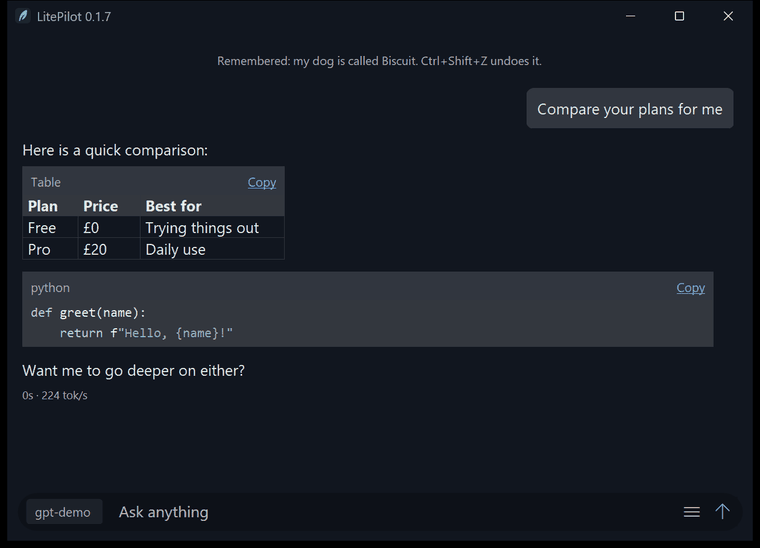
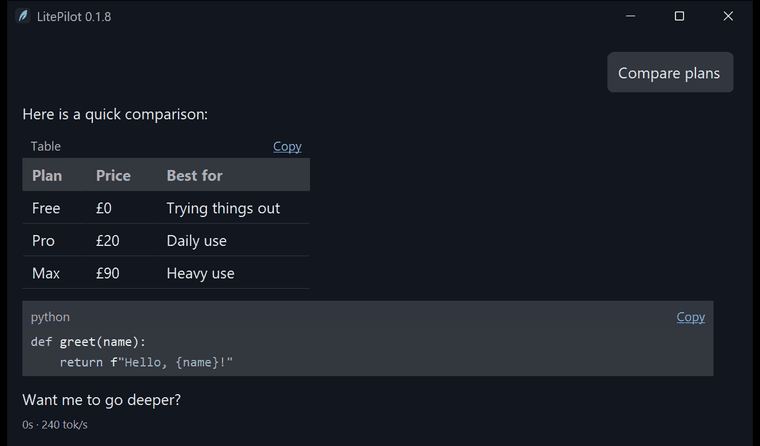
Version 0.1.8: clean card tables, tidier README screenshots

diff --git a/src/windows/rtf.rs b/src/windows/rtf.rs
@@ -149,14 +149,23 @@ fn copy_link(out: &mut String, text: String) {
     out.push_str("}}}");
 }
 
-/// The bar across the top of a card: a label on the left, Copy on the right.
-fn card_bar(out: &mut String, label: &str, text: String, width: usize) {
-    out.push_str(&format!("\\trowd\\trgaph120{CELL_EDGE}\\clcbpat5\\cellx{}{CELL_EDGE}\\clcbpat5\\cellx{width}", width * 2 / 3));
-    out.push_str("\\pard\\intbl\\ltrpar\\sb40\\sa40{\\fs18\\cf2 ");
+/// The bar across the top of a card: a label on the left, Copy on the right. Code cards shade it; tables
+/// leave it plain, so the table below reads as one clean card.
+fn card_bar(out: &mut String, label: &str, text: String, width: usize, shaded: bool) {
+    // RichEdit draws a light guide line around a cell with no border set, so the plain bar gets borders in the
+    // page's own color (color 6) instead.
+    let cell = if shaded { format!(r"{CELL_EDGE}\clcbpat5") } else { edges(6, 6, 6, 6) };
+    out.push_str(&format!(r"\trowd\trgaph120{cell}\cellx{}{cell}\cellx{width}", width * 2 / 3));
+    out.push_str(r"\pard\intbl\ltrpar\sb40\sa40{\fs18\cf2 ");
     esc(out, label);
-    out.push_str("}\\cell\\pard\\intbl\\qr\\sb40\\sa40 ");
+    out.push_str(r"}\cell\pard\intbl\qr\sb40\sa40 ");
     copy_link(out, text);
-    out.push_str("\\cell\\row\\pard ");
+    out.push_str(r"\cell\row\pard ");
+}
+
+/// Cell borders (top, left, bottom, right), each a color index from the table of colors.
+fn edges(t: u8, l: u8, b: u8, r: u8) -> String {
+    format!(r"\clbrdrt\brdrs\brdrw5\brdrcf{t}\clbrdrl\brdrs\brdrw5\brdrcf{l}\clbrdrb\brdrs\brdrw5\brdrcf{b}\clbrdrr\brdrs\brdrw5\brdrcf{r}")
 }
 
 fn is_keyword(w: &str) -> bool {
@@ -203,7 +212,7 @@ fn code_line(out: &mut String, line: &str) {
 }
 
 fn code_card(out: &mut String, lang: &str, lines: &[&str]) {
-    card_bar(out, if lang.is_empty() { "Code" } else { lang }, lines.join("\r\n"), CARD_W());
+    card_bar(out, if lang.is_empty() { "Code" } else { lang }, lines.join("\r\n"), CARD_W(), true);
     out.push_str(&format!("\\trowd\\trgaph120{CELL_EDGE}\\clcbpat4\\cellx{}\\pard\\intbl\\ltrpar\\sb60\\sa60{{\\f1\\fs19 ", CARD_W()));
     for (n, l) in lines.iter().enumerate() {
         if n > 0 { out.push_str("\\line "); }
@@ -227,7 +236,7 @@ fn cells(l: &str) -> Vec<&str> {
 /// scrolling tables keep the room their text needs.
 fn column_edges(head: &[&str], rows: &[&str], n: usize) -> Vec<usize> {
     const CHAR_TW: usize = 105; // an average character at the body size, in twips
-    const PAD_TW: usize = 260; // the cell's inner gap and border
+    const PAD_TW: usize = 380; // the cell's inner gap and border
     let mut need = vec![3usize; n];
     for (i, c) in head.iter().enumerate().take(n) { need[i] = need[i].max(c.chars().count() + 1); }
     for l in rows {
@@ -248,20 +257,24 @@ fn column_edges(head: &[&str], rows: &[&str], n: usize) -> Vec<usize> {
     widths.iter().scan(0, |acc, w| { *acc += w; Some(*acc) }).collect()
 }
 
-fn table_row(out: &mut String, cs: &[&str], edges: &[usize], head: bool) {
-    let n = edges.len();
-    out.push_str("\\trowd\\trgaph80");
+/// One table row in the clean card style: a tinted, muted header, thin lines between rows, no vertical lines,
+/// and roomy cells.
+fn table_row(out: &mut String, cs: &[&str], edges_tw: &[usize], head: bool) {
+    let n = edges_tw.len();
+    out.push_str(r"\trowd\trgaph140");
     for i in 1..=n {
-        out.push_str(&format!("{CELL_EDGE}{}\\cellx{}", if head { "\\clcbpat4" } else { "" }, edges[i - 1]));
+        // Header: tinted, its edges in its own tint. Body: a thin line above and below, page-colored sides.
+        let look = if head { format!(r"{}\clcbpat4", edges(4, 4, 4, 4)) } else { edges(5, 6, 5, 6) };
+        out.push_str(&format!(r"{look}\cellx{}", edges_tw[i - 1]));
     }
     for i in 0..n {
-        out.push_str("\\pard\\intbl ");
-        if head { out.push_str("\\b "); }
+        out.push_str(r"\pard\intbl\sb70\sa70 ");
+        if head { out.push_str(r"\b\cf2 "); }
         inline(out, cs.get(i).copied().unwrap_or(""));
-        if head { out.push_str("\\b0 "); }
-        out.push_str("\\cell ");
+        if head { out.push_str(r"\b0\cf1 "); }
+        out.push_str(r"\cell ");
     }
-    out.push_str("\\row\\pard ");
+    out.push_str(r"\row\pard ");
 }
 
 /// True when the first letter is from a right-to-left script (Arabic, Hebrew, Persian, Urdu and so on).
@@ -311,7 +324,7 @@ fn markdown(out: &mut String, md: &str) {
             // Copies as tab-separated text, which pastes into spreadsheets as a real table.
             let tsv: Vec<String> = std::iter::once(t).chain(lines[first..end].iter().copied()).map(|l| cells(l).join("\t")).collect();
             let edges = column_edges(&head, &lines[first..end], n);
-            card_bar(out, "Table", tsv.join("\r\n"), *edges.last().unwrap_or(&CARD_W()));
+            card_bar(out, "Table", tsv.join("\r\n"), *edges.last().unwrap_or(&CARD_W()), false);
             table_row(out, &head, &edges, true);
             for l in &lines[first..end] { table_row(out, &cells(l), &edges, false); }
             out.push_str(CARD_GAP);

diff --git a/README.md b/README.md
@@ -5,8 +5,7 @@ A tiny Windows popup for AI chat. Press a shortcut, ask, press Esc.
 _Version 0.1.8._
 
 <p>
-  <img src="screenshots/chat.png" alt="A reply with a table and code, in the LitePilot popup" width="380">
-  <img src="screenshots/attach.png" alt="A picture attached in the typing box" width="380">
+  <img src="screenshots/chat.png" alt="A reply with a table and code in the LitePilot popup" width="560">
 </p>
 
 ## What it does
